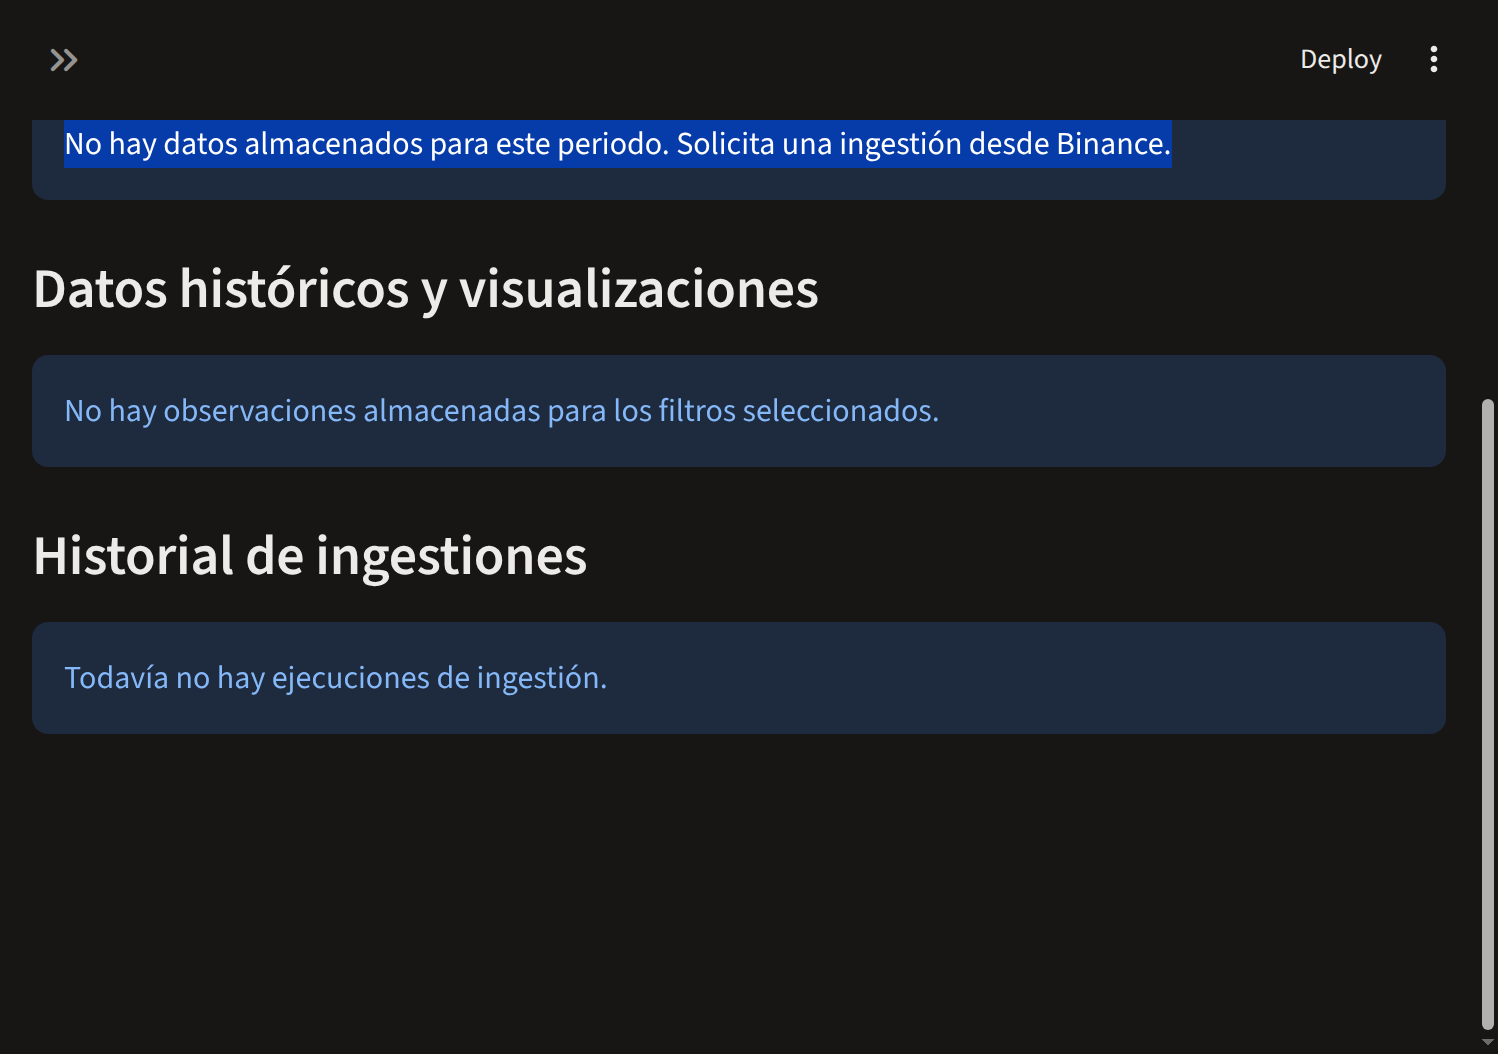
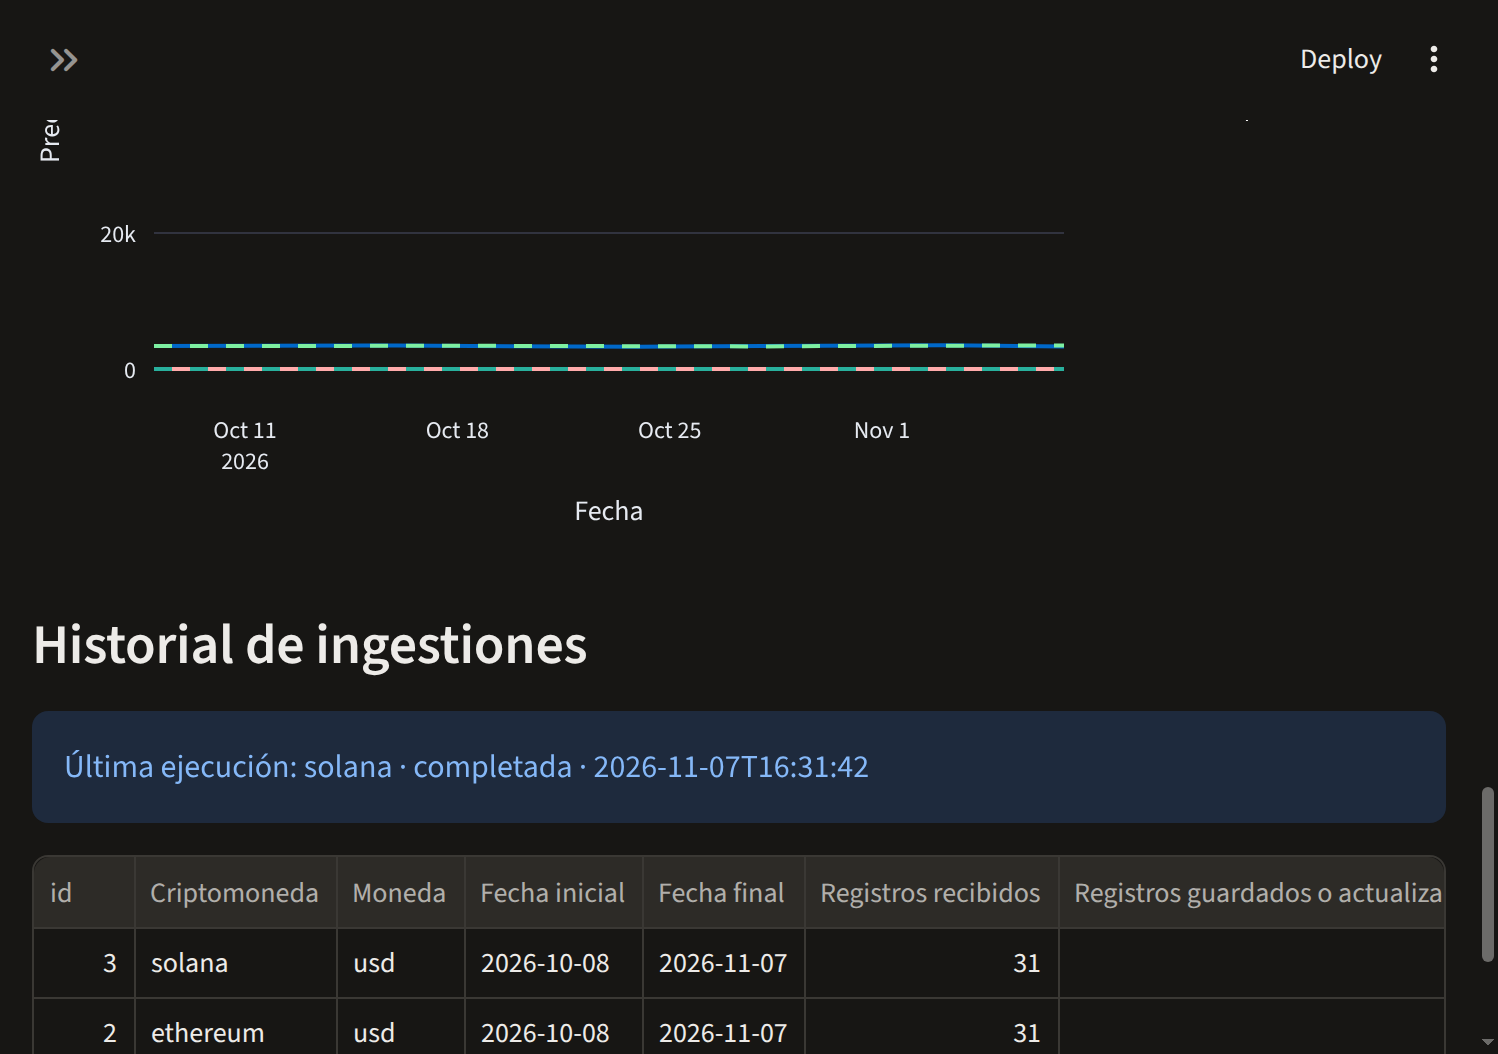
Nuevas vistas

diff --git a/crypto-api/app/coingecko_client.py b/crypto-api/app/coingecko_client.py
@@ -1,4 +1,5 @@
-from datetime import date, datetime, time, timezone
+from datetime import date, datetime, time, timedelta, timezone
+import math
 
 import httpx
 
@@ -9,6 +10,27 @@ class MarketDataProviderError(Exception):
     def __init__(self, message: str, status_code: int = 502):
         super().__init__(message)
         self.status_code = status_code
+
+
+def _demo_market_chart(
+    coin_id: str, start_date: date, end_date: date
+) -> dict:
+    """Return clearly marked deterministic data when the public API is unreachable."""
+    bases = {"bitcoin": 68000, "btc": 68000, "ethereum": 3500, "eth": 3500,
+             "solana": 160, "sol": 160, "dogecoin": 0.15, "doge": 0.15}
+    base = bases.get(coin_id.lower(), 100.0)
+    prices = []
+    volumes = []
+    current = start_date
+    index = 0
+    while current <= end_date:
+        value = base * (1 + 0.04 * math.sin(index / 3) + 0.01 * index / 30)
+        timestamp = int(datetime.combine(current, time.min, tzinfo=timezone.utc).timestamp() * 1000)
+        prices.append([timestamp, round(value, 8)])
+        volumes.append([timestamp, round(base * 1200 * (1 + abs(math.sin(index))), 2)])
+        current += timedelta(days=1)
+        index += 1
+    return {"prices": prices, "market_caps": [], "total_volumes": volumes, "demo": True}
 
 
 def fetch_market_chart(
@@ -66,7 +88,7 @@ def fetch_market_chart(
         }
     except httpx.TimeoutException as error:
         raise MarketDataProviderError("La consulta a Binance agotó el tiempo de espera.", 502) from error
-    except httpx.HTTPError as error:
-        raise MarketDataProviderError("No fue posible conectar con Binance.", 502) from error
+    except httpx.HTTPError:
+        return _demo_market_chart(coin_id, start_date, end_date)
     except ValueError as error:
         raise MarketDataProviderError("Binance devolvió una respuesta JSON inválida.", 502) from error

diff --git a/crypto-api/app/ingestion_service.py b/crypto-api/app/ingestion_service.py
@@ -157,7 +157,7 @@ def ingest_market_data(session: Session, request: IngestRequest) -> dict:
                     "total_volume": (
                         Decimal(str(volumes[timestamp])) if timestamp in volumes else None
                     ),
-                    "source": "Binance",
+                    "source": "Demo local" if payload.get("demo") else "Binance",
                 }
                 for timestamp, price in sorted(prices.items())
             ]
@@ -165,11 +165,13 @@ def ingest_market_data(session: Session, request: IngestRequest) -> dict:
             statement = sqlite_insert(MarketPrice).values(rows)
             statement = statement.on_conflict_do_update(
                 index_elements=["cryptocurrency_id", "observed_at", "currency"],
-                price=statement.inserted.price,
-                market_cap=statement.inserted.market_cap,
-                total_volume=statement.inserted.total_volume,
-                source=statement.inserted.source,
-                ingested_at=datetime.now(timezone.utc).replace(tzinfo=None),
+                set_={
+                    "price": statement.excluded.price,
+                    "market_cap": statement.excluded.market_cap,
+                    "total_volume": statement.excluded.total_volume,
+                    "source": statement.excluded.source,
+                    "ingested_at": datetime.now(timezone.utc).replace(tzinfo=None),
+                },
             )
             session.execute(statement)
             run = session.get(IngestionRun, run_id)

diff --git a/crypto-api/app/main.py b/crypto-api/app/main.py
@@ -1,5 +1,5 @@
 import logging
-from datetime import date
+from datetime import date, timedelta
 
 from fastapi import APIRouter, Depends, FastAPI, HTTPException, Query, status
 from sqlalchemy import inspect, select, text
@@ -42,8 +42,23 @@ REQUIRED_TABLES = {"cryptocurrencies", "market_prices", "ingestion_runs"}
 @app.on_event("startup")
 def create_tables() -> None:
     from app.database import Base
+    from app.database import SessionLocal
+    from app.schemas import IngestRequest
 
     Base.metadata.create_all(bind=engine)
+    with SessionLocal() as session:
+        if session.scalar(select(MarketPrice.id).limit(1)) is None:
+            request = IngestRequest(
+                coin_ids=list(settings.default_coins),
+                currency=settings.default_currency,
+                start_date=date.today() - timedelta(days=30),
+                end_date=date.today(),
+            )
+            try:
+                ingest_market_data(session, request)
+                logger.info("Datos demo iniciales cargados para el dashboard.")
+            except Exception:
+                logger.exception("No fue posible cargar datos iniciales.")
 
 
 @app.get("/health", tags=["Health"])

diff --git a/crypto-dashboard/app.py b/crypto-dashboard/app.py
@@ -30,7 +30,7 @@ default_currency = os.getenv("DEFAULT_CURRENCY", "usd").lower()
 def format_number(value: float | int | None, currency: str = "") -> str:
     if value is None or pd.isna(value):
         return "Sin datos"
-    return f"{currency} {value:,.2f}".strip()
+    return f"{currency} {float(value):,.2f}".strip()
 
 
 def load_service_status() -> None:
@@ -50,7 +50,7 @@ def load_service_status() -> None:
 st.title("CryptoInsight")
 st.caption(
     "Exploración académica de datos históricos de criptomonedas "
-    "obtenidos mediante Binance."
+    "obtenidos mediante Binance o datos demo locales."
 )
 st.warning(
     "Proyecto académico. La información presentada no constituye asesoría financiera."

diff --git a/README.md b/README.md
@@ -57,6 +57,8 @@ requerir un servicio externo de video.
 - Gráficas de precio, volumen, rendimientos y promedio móvil.
 - API REST documentada automáticamente con OpenAPI/Swagger.
 - Healthcheck para verificar la disponibilidad del servicio.
+- Datos demo locales claramente identificados para mostrar el producto sin
+  depender de la red durante una presentación.
 
 ## Alcance y límites
 
@@ -69,6 +71,10 @@ El proyecto cubre un flujo completo y demostrable de análisis histórico:
 3. Las observaciones se validan y almacenan en SQLite.
 4. Streamlit consulta los datos guardados.
 5. El dashboard calcula indicadores y genera visualizaciones.
+
+Si Binance no está disponible, el MVP carga automáticamente una serie demo
+determinista y la etiqueta como `Demo local`. Esto permite evaluar la interfaz
+sin presentar esos valores como cotizaciones reales.
 
 ### No incluido
 
@@ -252,8 +258,9 @@ Validaciones realizadas durante el desarrollo:
 
 Binance puede limitar solicitudes, bloquear regiones o no disponer de todos los
 pares. La API registra las ejecuciones y conserva los datos anteriores si una
-descarga falla. La disponibilidad, granularidad y exactitud de los resultados
-dependen del proveedor externo.
+descarga falla. Cuando la red no permite consultar Binance, se usa una serie
+demo local identificada en la columna `source`; esos valores no son datos de
+mercado y no deben interpretarse como cotizaciones reales.
 
 ## Licencia
 
